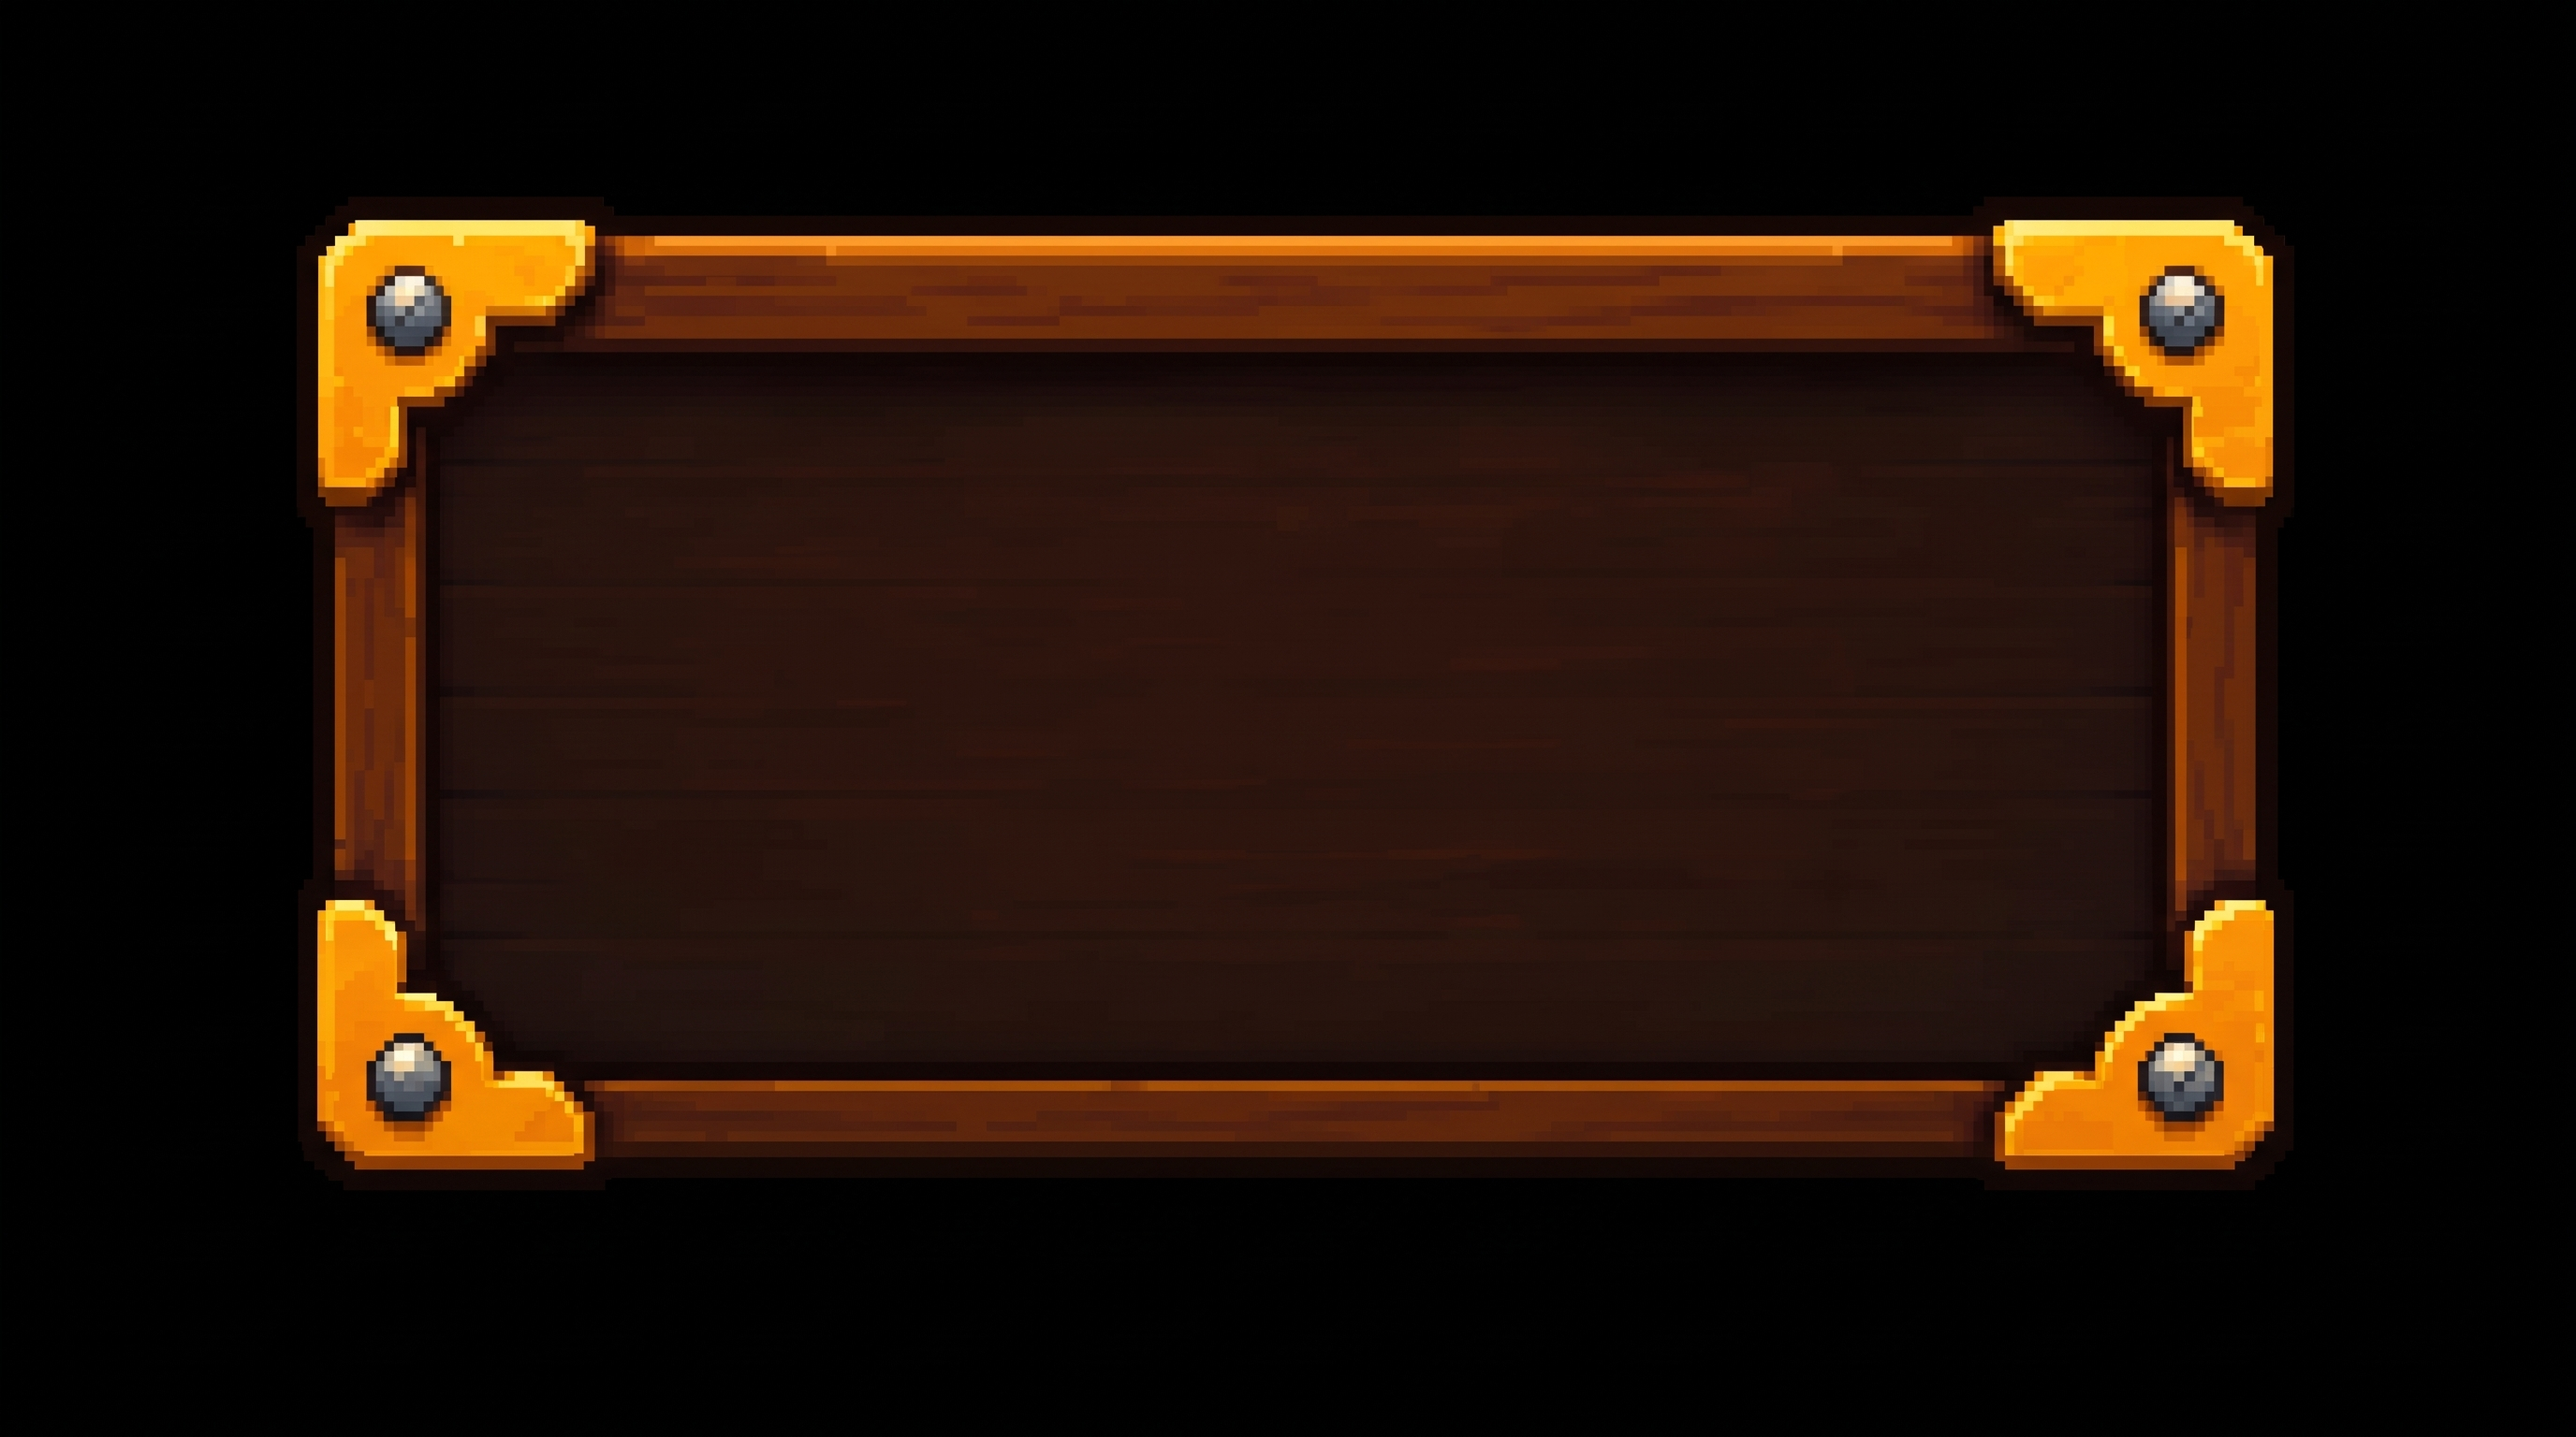
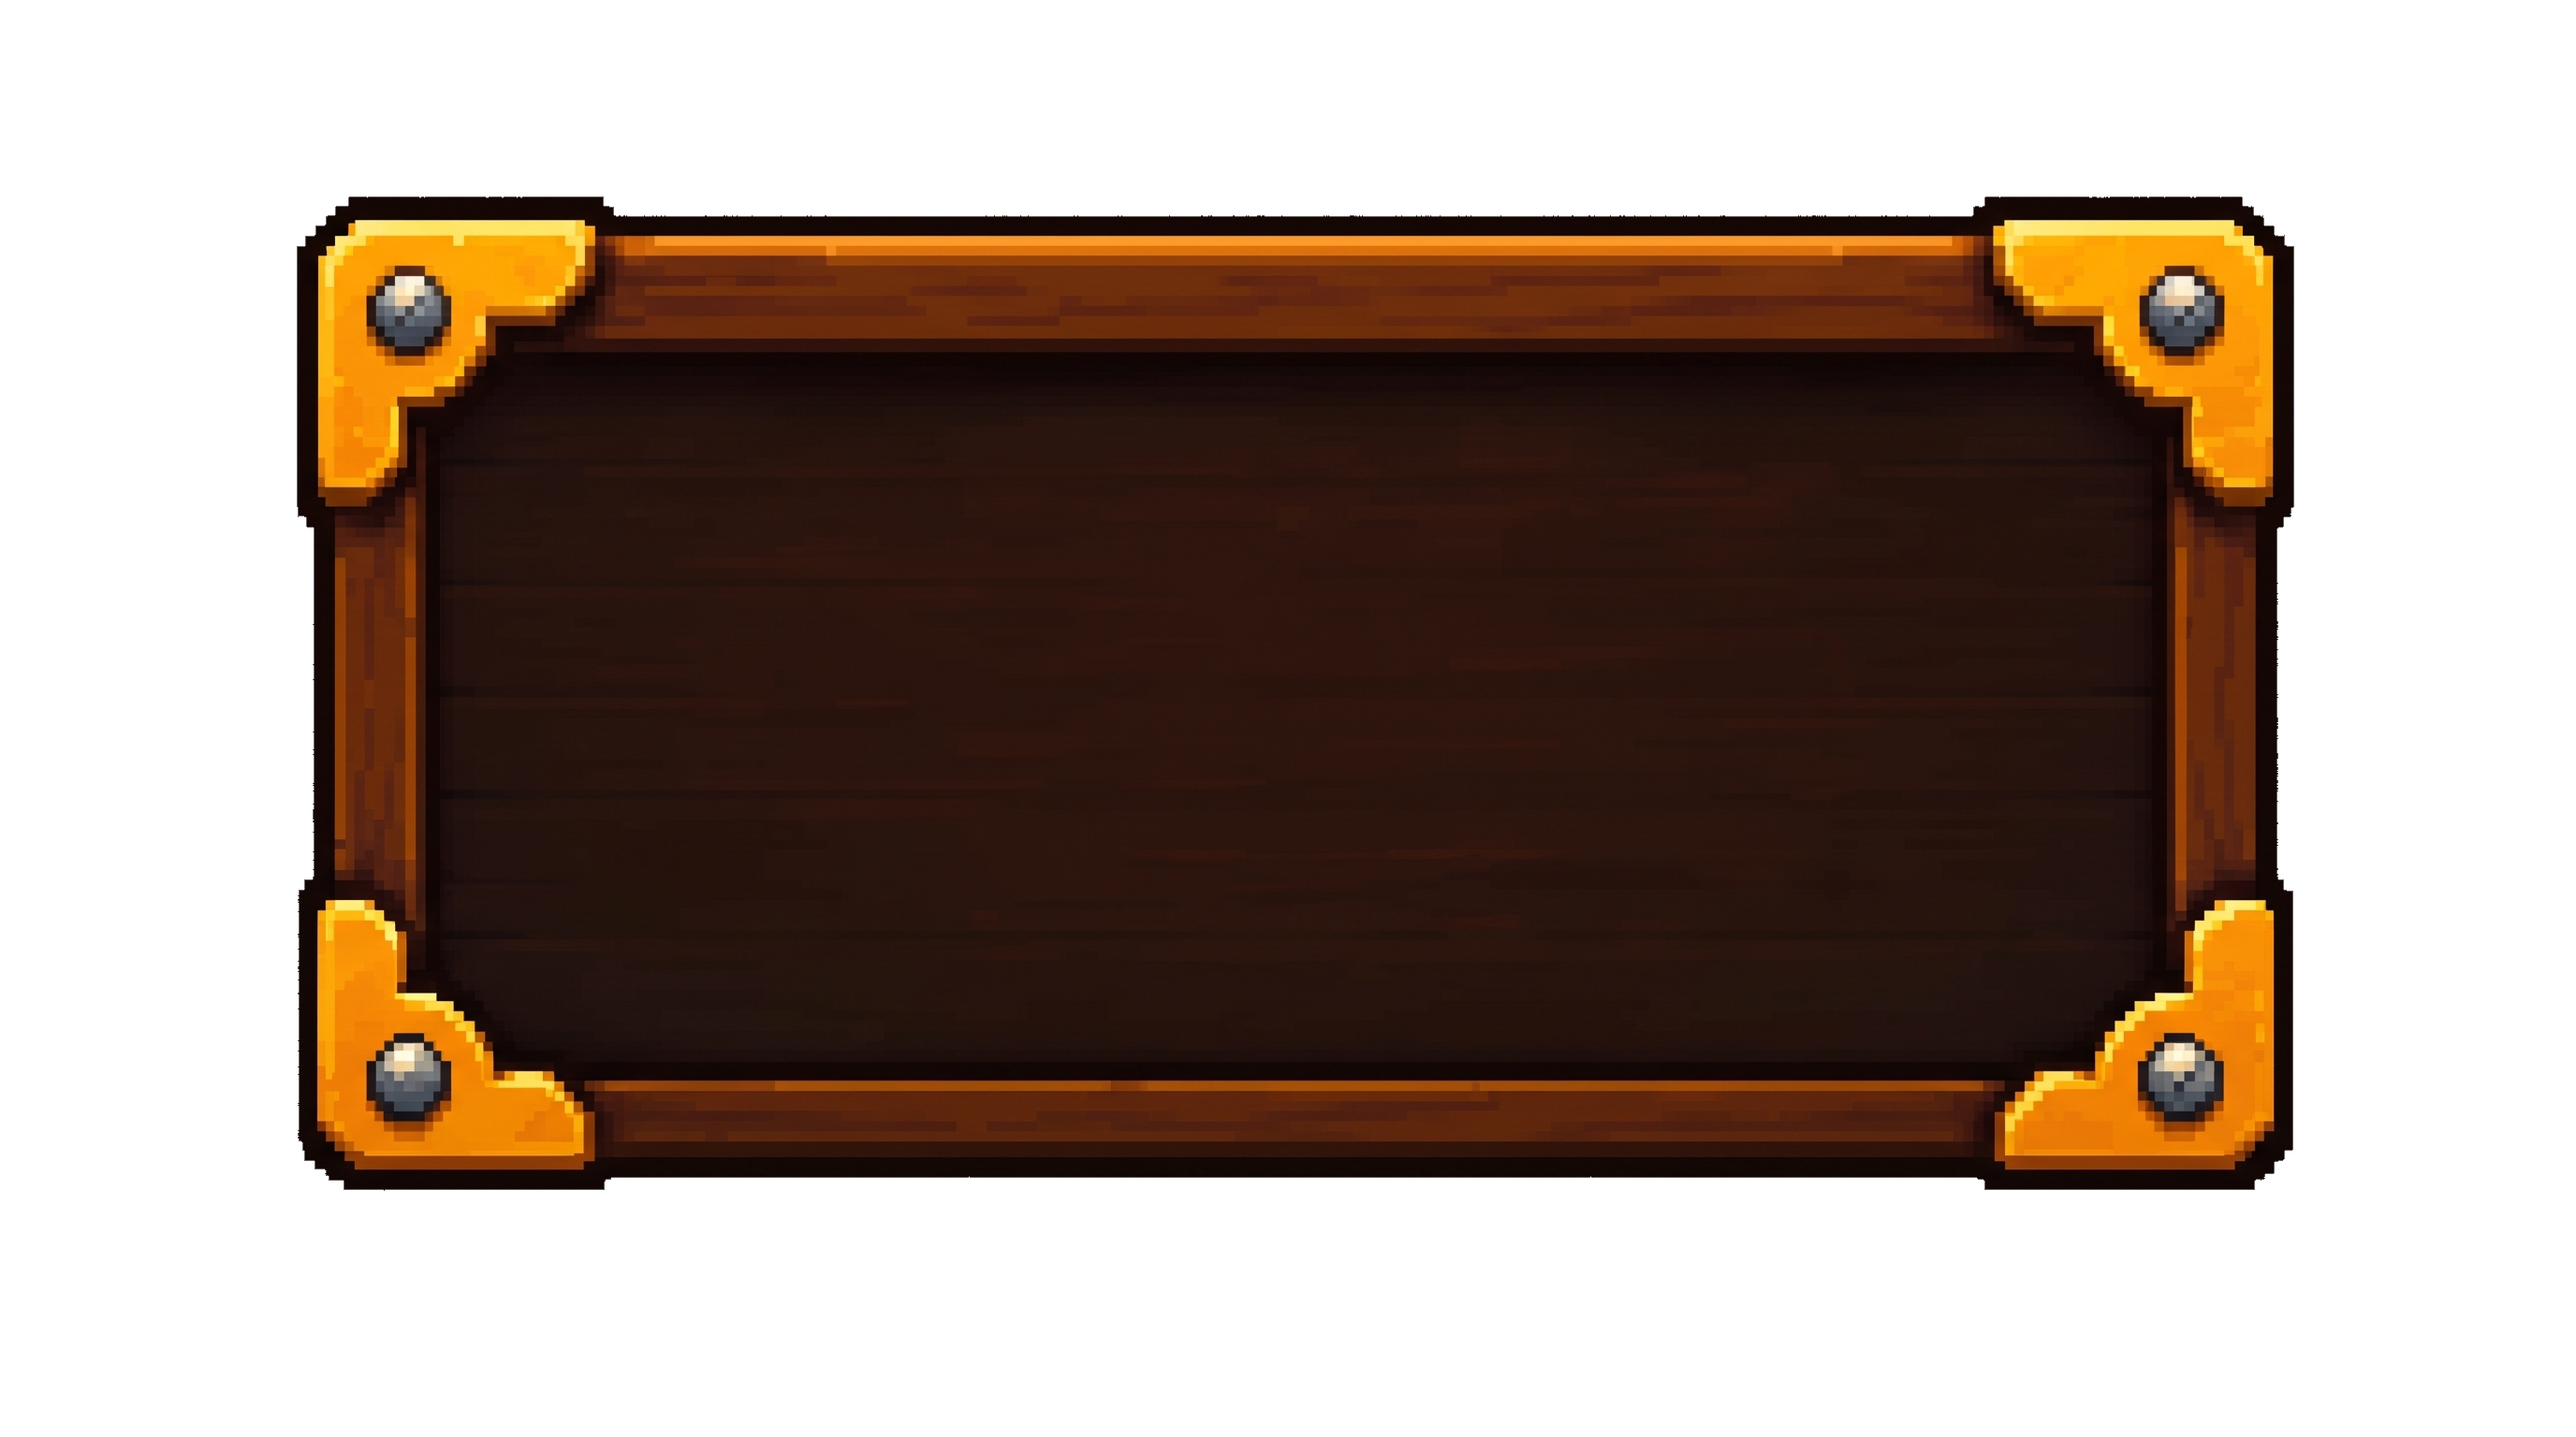
menu de fin + image détourée + chargement du me u + egronomique

diff --git a/game_over.py b/game_over.py
@@ -1,0 +1,112 @@
+import pygame
+from pathlib import Path
+
+from menu import load_image
+
+
+def show_game_over(window, score, high_score):
+    """Display a game-over panel over the frozen game."""
+
+    clock = pygame.time.Clock()
+    center_x = window.get_width() // 2
+    center_y = window.get_height() // 2
+
+    # Keep the last game frame behind the panel.
+    frozen_game = window.copy()
+
+    # Darken the game behind the panel.
+    overlay = pygame.Surface(window.get_size(), pygame.SRCALPHA)
+    overlay.fill((0, 0, 0, 140))
+
+    # Load the panel and buttons.
+    panel = load_image("wooden_frame", (600, 310))
+    replay_image = load_image("green_button", (220, 48))
+    menu_image = load_image("wooden_button", (220, 48))
+
+    panel_rect = panel.get_rect(center=(center_x, center_y))
+
+    replay_rect = replay_image.get_rect(
+        center=(center_x - 120, center_y + 80)
+    )
+    menu_rect = menu_image.get_rect(
+        center=(center_x + 120, center_y + 80)
+    )
+
+    # Load the same fonts as the main menu.
+    fonts_dir = Path(__file__).resolve().parent / "assets" / "fonts"
+
+    title_font = pygame.font.Font(
+        str(fonts_dir / "press_start.ttf"), 26
+    )
+    score_font = pygame.font.Font(
+        str(fonts_dir / "pixelify.ttf"), 24
+    )
+    button_font = pygame.font.Font(
+        str(fonts_dir / "tiny5_duo.ttf"), 24
+    )
+
+    def draw_text(message, center, font):
+        rendered_text = font.render(
+            str(message), True, (255, 245, 220)
+        )
+        window.blit(
+            rendered_text,
+            rendered_text.get_rect(center=center)
+        )
+
+    previous_cursor_visibility = pygame.mouse.get_visible()
+    pygame.mouse.set_visible(True)
+
+    try:
+        while True:
+            for event in pygame.event.get():
+                if event.type == pygame.QUIT:
+                    pygame.quit()
+                    raise SystemExit
+
+                if event.type == pygame.KEYDOWN:
+                    if event.key == pygame.K_RETURN:
+                        return "replay"
+                    if event.key == pygame.K_ESCAPE:
+                        return "menu"
+
+                if event.type == pygame.MOUSEBUTTONDOWN:
+                    if event.button == 1:
+                        if replay_rect.collidepoint(event.pos):
+                            return "replay"
+                        if menu_rect.collidepoint(event.pos):
+                            return "menu"
+
+            # Restore the frozen game before drawing the panel.
+            window.blit(frozen_game, (0, 0))
+            window.blit(overlay, (0, 0))
+            window.blit(panel, panel_rect)
+
+            draw_text(
+                "GAME OVER",
+                (center_x, center_y - 80),
+                title_font
+            )
+            draw_text(
+                f"SCORE: {score}",
+                (center_x, center_y - 20),
+                score_font
+            )
+            draw_text(
+                f"HIGH SCORE: {high_score}",
+                (center_x, center_y + 15),
+                score_font
+            )
+
+            window.blit(replay_image, replay_rect)
+            window.blit(menu_image, menu_rect)
+
+            draw_text("REPLAY", replay_rect.center, button_font)
+            draw_text("MENU", menu_rect.center, button_font)
+
+            pygame.display.flip()
+            clock.tick(60)
+
+    finally:
+        if pygame.display.get_init():
+            pygame.mouse.set_visible(previous_cursor_visibility)

diff --git a/leprechaun.py b/leprechaun.py
@@ -2,6 +2,7 @@ import pygame, random, sys
 from pygame.locals import *
 
 from menu import show_menu
+from game_over import show_game_over
 from settings import*
 from gravity import JetpackPhysics
 from visuals import Visuals
@@ -79,19 +80,28 @@ topScore = 0
 last_score = None
 sound_enabled = True
 gravity = JetpackPhysics()
+topScore = 0
+last_score = None
+sound_enabled = True
+gravity = JetpackPhysics()
+open_main_menu = True
 
 while True:
-    # Show the menu before each game.
-    sound_enabled = show_menu(
-        windowSurface,
-        high_score=topScore,
-        last_score=last_score,
-        sound_enabled=sound_enabled
-    )
+    # Open the main menu at startup or when MENU is selected.
+    if open_main_menu:
+        sound_enabled = show_menu(
+            windowSurface,
+            high_score=topScore,
+            last_score=last_score,
+            sound_enabled=sound_enabled
+        )
 
     # Apply the selected sound setting.
     pygame.mixer.music.set_volume(1.0 if sound_enabled else 0.0)
     gameOverSound.set_volume(1.0 if sound_enabled else 0.0)
+
+    # Stop any remaining game-over sound before starting.
+    gameOverSound.stop()
 
     # Set up the start of the game.
     baddies = []
@@ -233,15 +243,16 @@ while True:
 
         mainClock.tick(FPS)
 
-    # Stop the music and play the game-over sound.
+        # Stop the music and play the game-over sound.
     pygame.mixer.music.stop()
     gameOverSound.play()
 
-    drawText('GAME OVER', font, windowSurface, (WINDOWWIDTH / 3), (WINDOWHEIGHT / 3))
-    drawText('Press a key to play again.', font, windowSurface, (WINDOWWIDTH / 3) - 80, (WINDOWHEIGHT / 3) + 50)
-    pygame.display.update()
-    waitForPlayerToPressKey()
-
-
-    # Save the latest score before returning to the menu.
+    # Save the latest score and update the session record.
     last_score = score
+    topScore = max(topScore, score)
+
+    # Show the game-over panel over the frozen game.
+    action = show_game_over(windowSurface, score, topScore)
+
+    # Choose whether to open the main menu before the next game.
+    open_main_menu = action == "menu"   

diff --git a/menu.py b/menu.py
@@ -1,11 +1,12 @@
 import pygame
 from pathlib import Path
 from collections import deque
+from functools import lru_cache
 
 MENU_ASSETS_DIR = Path(__file__).resolve().parent / "assets" / "menu"
 
-
-def load_image(name, size, remove_black=True):
+@lru_cache(maxsize=32)
+def load_image(name, size, remove_black=False):
     """Load an image and resize it without stretching it."""
 
     path = next(
@@ -21,6 +22,11 @@ def load_image(name, size, remove_black=True):
         )
 
     image = pygame.image.load(str(path)).convert_alpha()
+
+    # Crop transparent margins before resizing the image.
+    bounds = image.get_bounding_rect()
+    if bounds.width and bounds.height:
+        image = image.subsurface(bounds).copy()
 
     if remove_black:
         # Reduce large images to speed up background removal.
